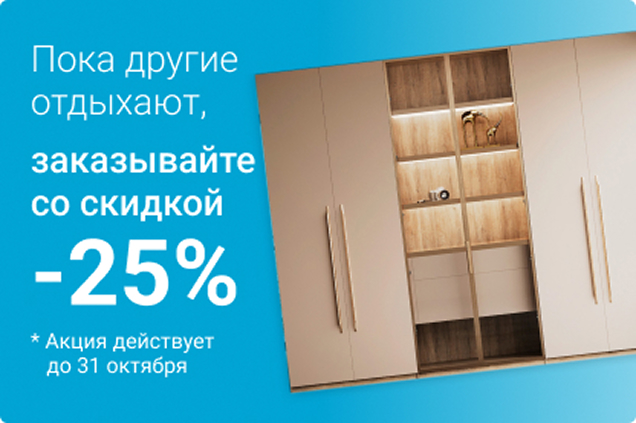
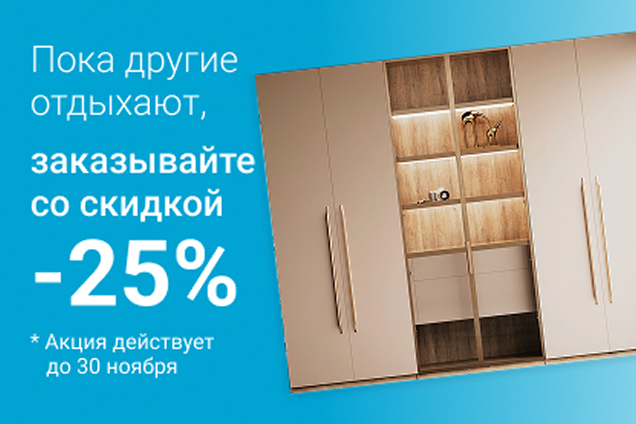
update img

diff --git a/template-parts/action/action.php b/template-parts/action/action.php
@@ -23,7 +23,7 @@ $actions_data = [
         'order' => 1,
         'category' => 'kitchen, home, cucina',
         'modal_data' => 'discount-5',
-        'description' => 'Скидка 5% На все кухни CUCINA до 31 октября'
+        'description' => 'Скидка 5% На все кухни CUCINA до 30 ноября'
     ],
     [
         'image_path' => get_template_directory_uri() . '/img/actions/new/new-action-7.webp',
@@ -39,7 +39,7 @@ $actions_data = [
         'order' => 3,
         'category' => 'kitchen, closets',
         'modal_data' => 'discount-25',
-        'description' => 'Заказывайте со скидкой -25% до 31 октября'
+        'description' => 'Заказывайте со скидкой -25% до 30 ноября'
     ],
     [
         'image_path' => get_template_directory_uri() . '/img/actions/new/new-action-2.webp',
